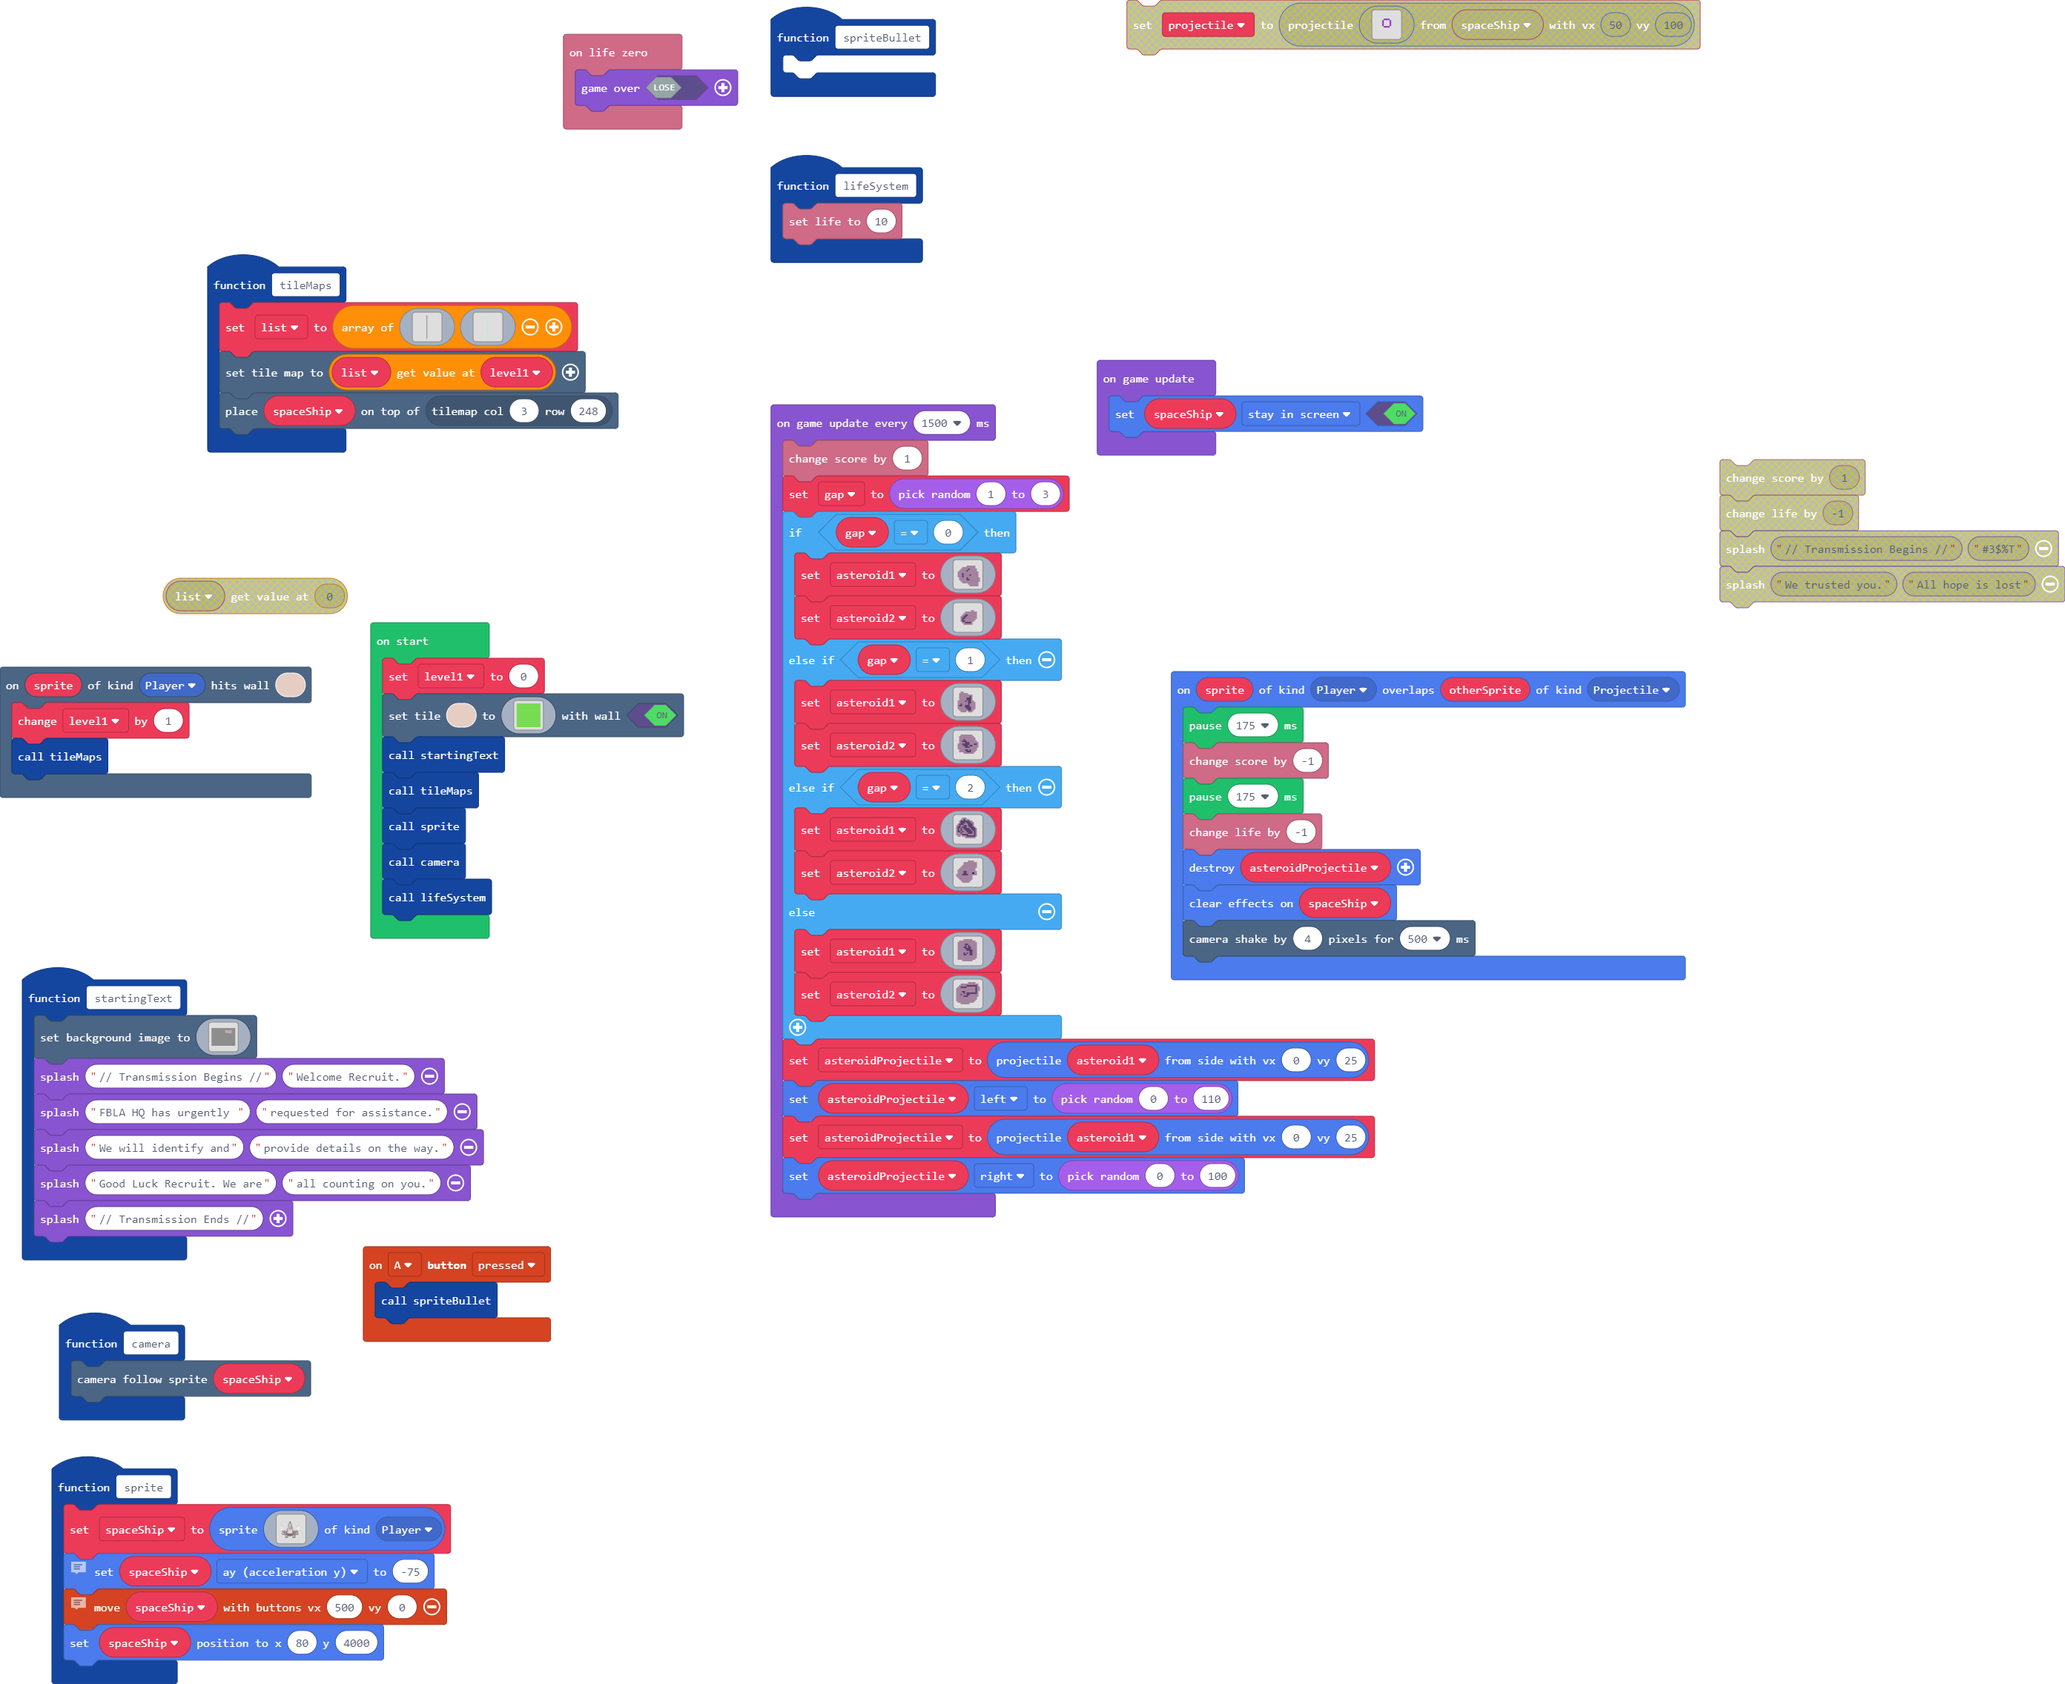
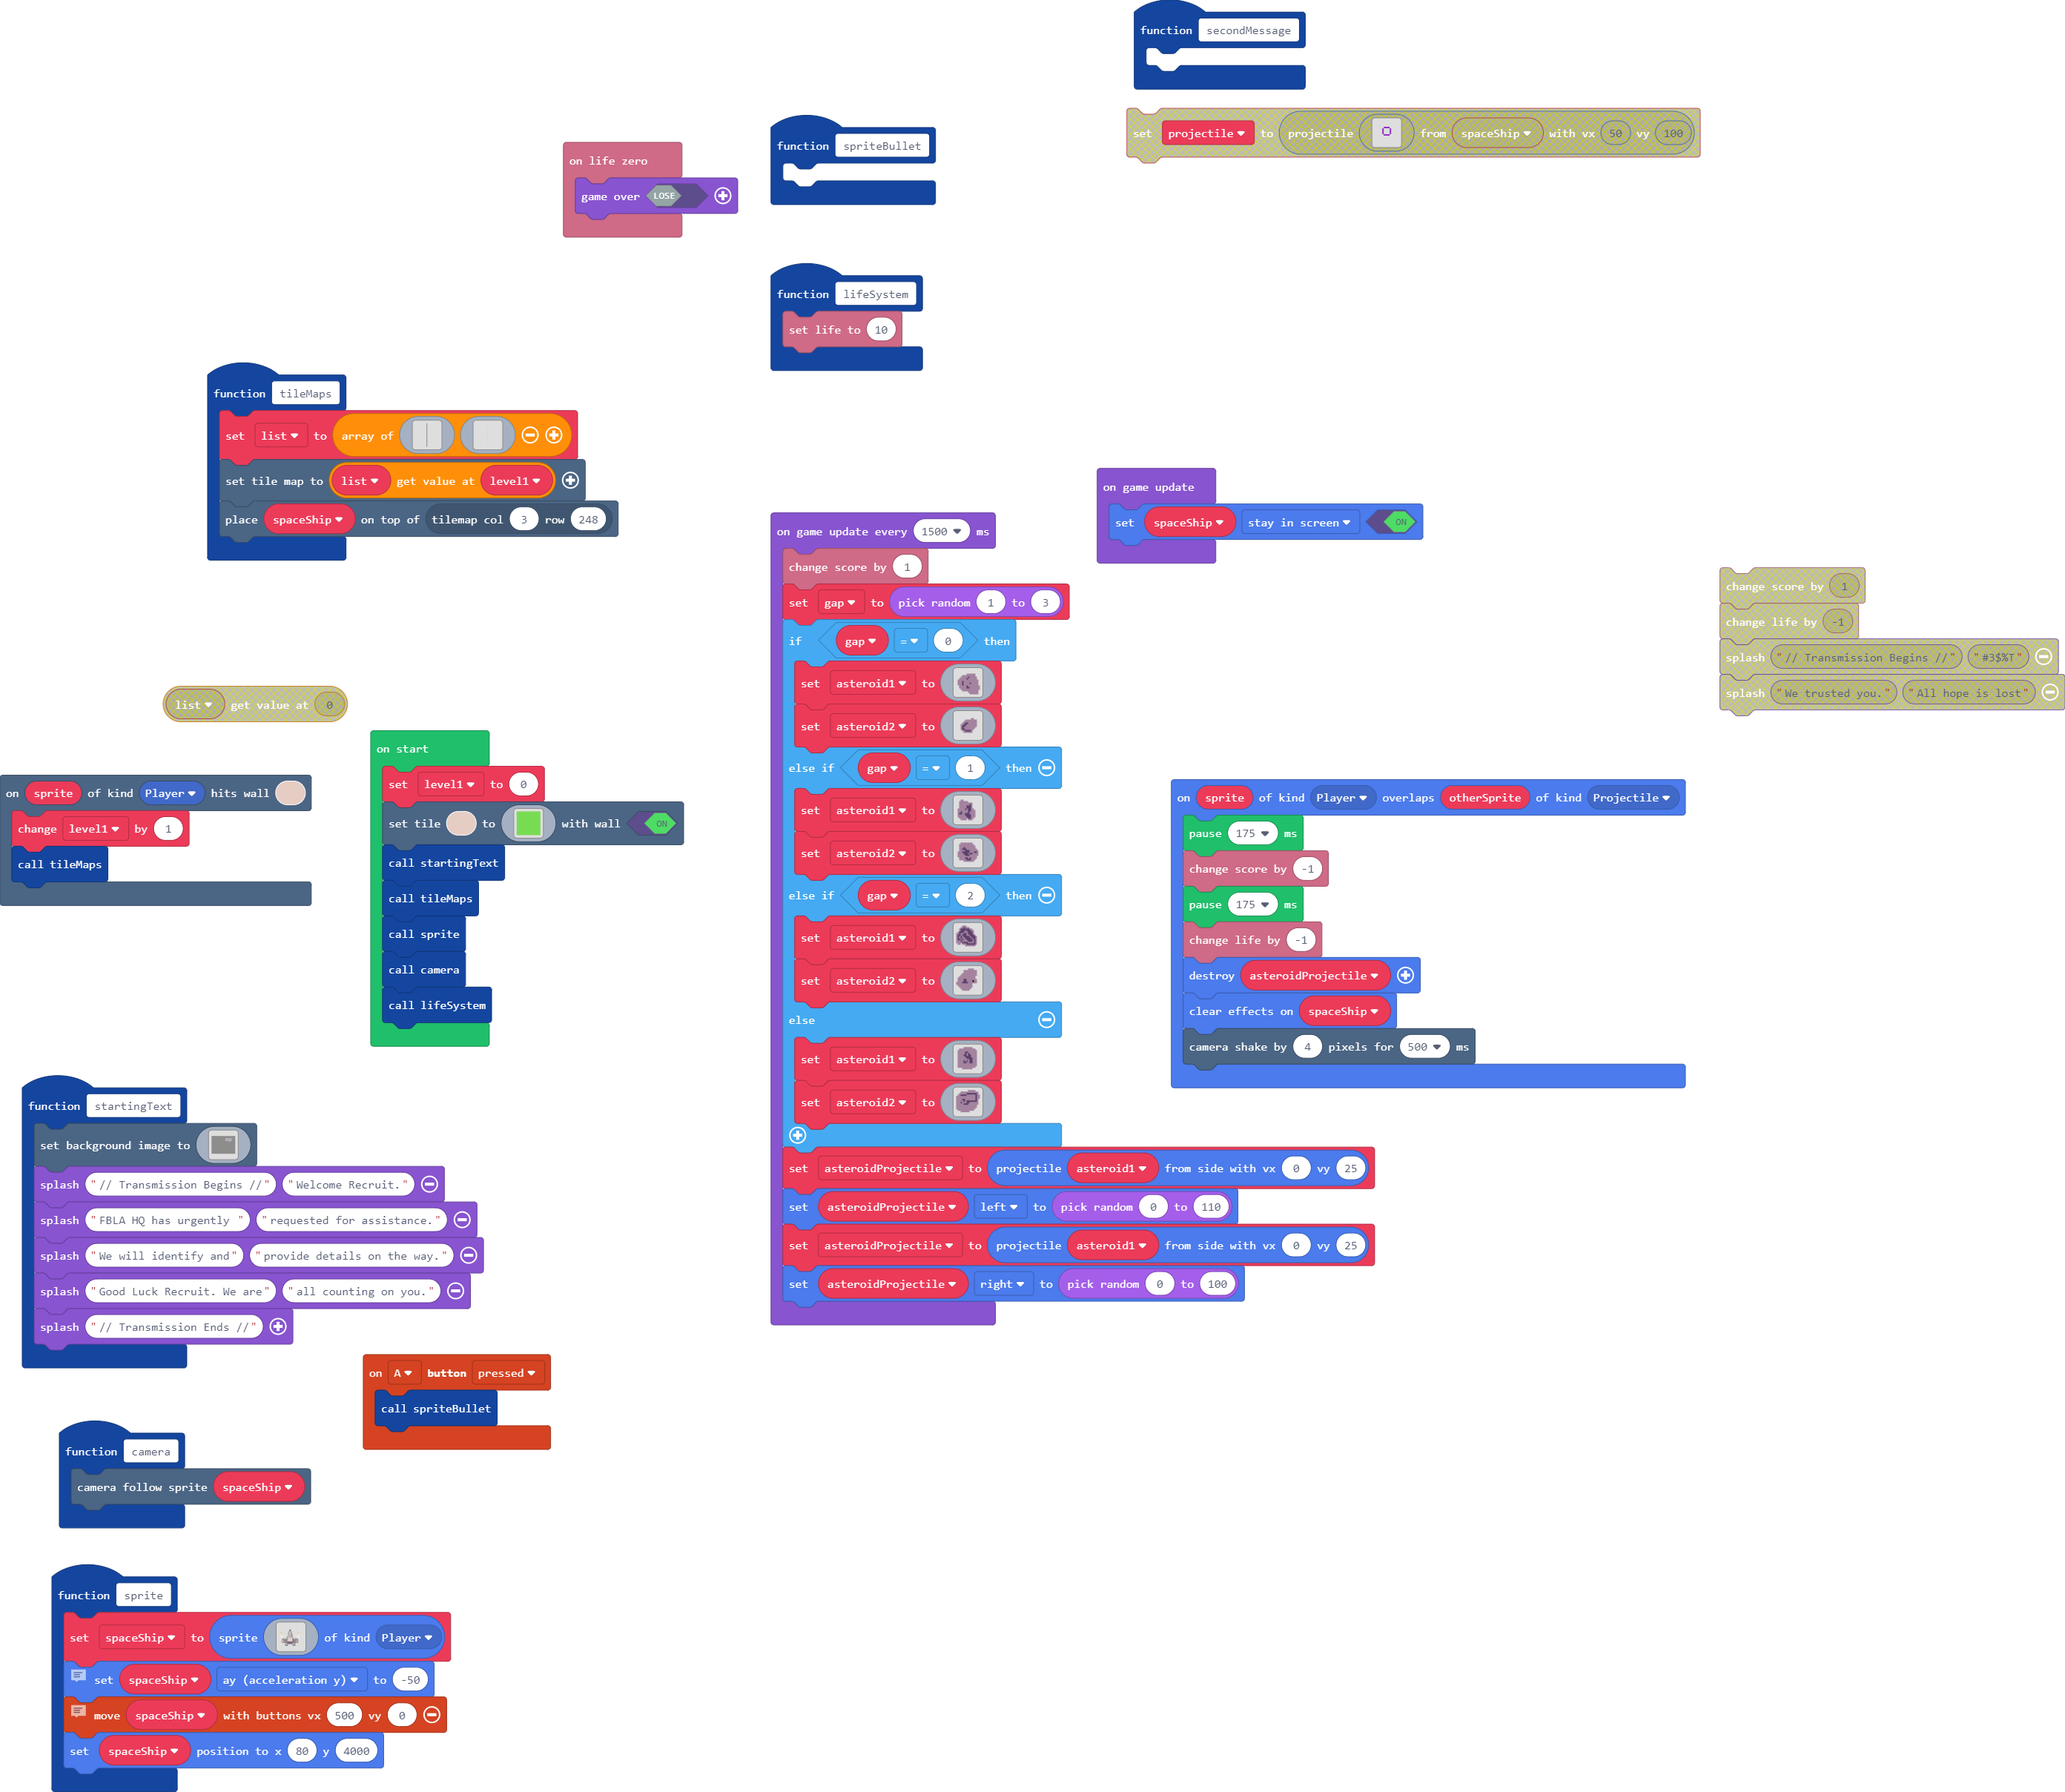
Update main.blocks, main.ts

diff --git a/main.ts b/main.ts
@@ -42,10 +42,13 @@ function sprite () {
 . . . . . . . . . . . . f f f f f . . . . . . . . . . f f f f f . . . . . . . . . . . . . . . . 
 `, SpriteKind.Player)
     // makes spaceShip go up no matter what
-    spaceShip.ay = -75
+    spaceShip.ay = -50
     // Allows you to move side to side
     controller.moveSprite(spaceShip, 500, 0)
     spaceShip.setPosition(80, 4000)
+}
+function secondMessage () {
+	
 }
 function lifeSystem () {
     info.setLife(10)
